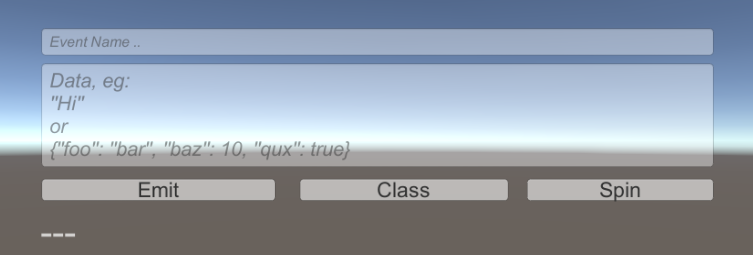
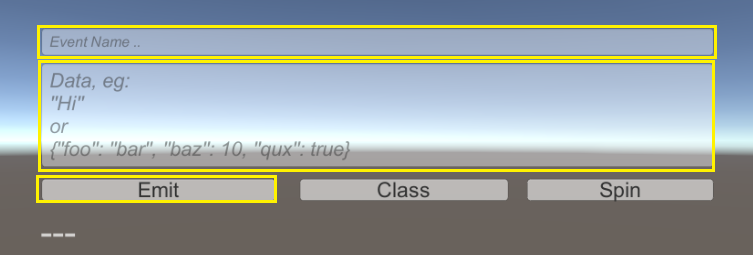
topic client site
topic client site

Changed region(s): [[0.0305, 0.0824, 0.9774, 0.7961]]

diff --git a/README.md b/README.md
@@ -363,7 +363,51 @@ public class SocketManager : MonoBehaviour
 # 3.sever-client basic communicate 
 ## Server side
 
+## Client side
+เข้าไปแก้ไข c# script ก่อนหน้านี้โดยทำการเพิ่มตัวแปร UI และ Function การส่งข้อมูลไปยัง Server
+สร้างตัวแปร Input field 2 ตัวเพื่อส่ง EventName และ Data
+```cs
+public InputField EventNameTxt;
+public InputField DataTxt;
+```
+### สร้าง Function ส่งข้อมูลไปยัง Server
+```cs
+public void EmitTest()
+{
+    string eventName = EventNameTxt.text.Trim().Length < 1 ? "hello" : EventNameTxt.text;
+    string txt = DataTxt.text;
+    if (!IsJSON(txt))
+    {
+        socket.Emit(eventName, txt);
+    }
+    else
+    {
+        socket.EmitStringAsJSON(eventName, txt);
+    }
+}
 
+```
+>eventName คือการเรียกขอใช้งาน event ที่อยู่บน server โดยชื่อของ event จำเป็นต้องเป็นชื่อเดียวกันกับที่ตั้งไว้บน server นั่นก็คือ event “hello” 
+>
+>txt คือข้อมูลที่เราจะแนบส่งไปพร้อมกับการเรียกใช้ event  “hello” ซึ่งทางฝั่งของ server จะต้องมี parameter ที่มีไว้รองรับข้อมูลที่แนบมาด้วย
+
+### เพื่อให้มั่นใจว่าข้อมูลที่ส่งไปจะอยู่ในรูปแบบที่เราต้องการ ในที่นี้เราต้องการส่งข้อมูลไปในรูปแบบของ Json จึงต้องดักเงื่อนไขการส่งข้อมูลก่อนที่จะส่งไปยัง Server
+> 
+>เงื่อนไขที่กำหนดไว้ คือ ถ้า txt(ข้อมูลที่จะส่งไปที่ server) อยู่ในรูปแบบของ Json หรือไม่ ถ้าอยู่ในรูปแบบของ Json ให้ส่งข้อมูลไปยัง Server
+>
+>ถ้าข้อมูลไม่ได้อยู่ในรูปแบบของ Json ให้แปลงข้อมูลรูปแบบจากรูปแบบ string ไปเป็นเป็นไฟล์ Json แล้วค่อยส่งไปยัง Server
+
+### Setup UI
+สร้าง Input Field ขึ้นมา 2 ช่องเพื่อใส่ Event Name และ Data / สร้างปุ่ม Emit และอื่นๆตามรูปภาพ โดยเราจะใช้ปุ่ม Emit เป็นหลักก่อน
+![clientUIsetup](./src/Topic3_clientsite_setup_inputfield/Emit%20UI%20Screen.png)
+### Reference UI
+นำ c# script ที่ทำก่อนหน้ามาติดตั้งที่ Gameobject และทำการ reference Input Field ทั้ง 2
+>
+![clientUIsetup](./src/Topic3_clientsite_setup_inputfield/ref.png)
+### Add on click event to button
+เพิ่ม event on click ให้กับปุ่ม Emit
+>
+![clientUIsetup](src/Topic3_clientsite_setup_inputfield/but.png)
 # 4.sever-client join room 
 
 
